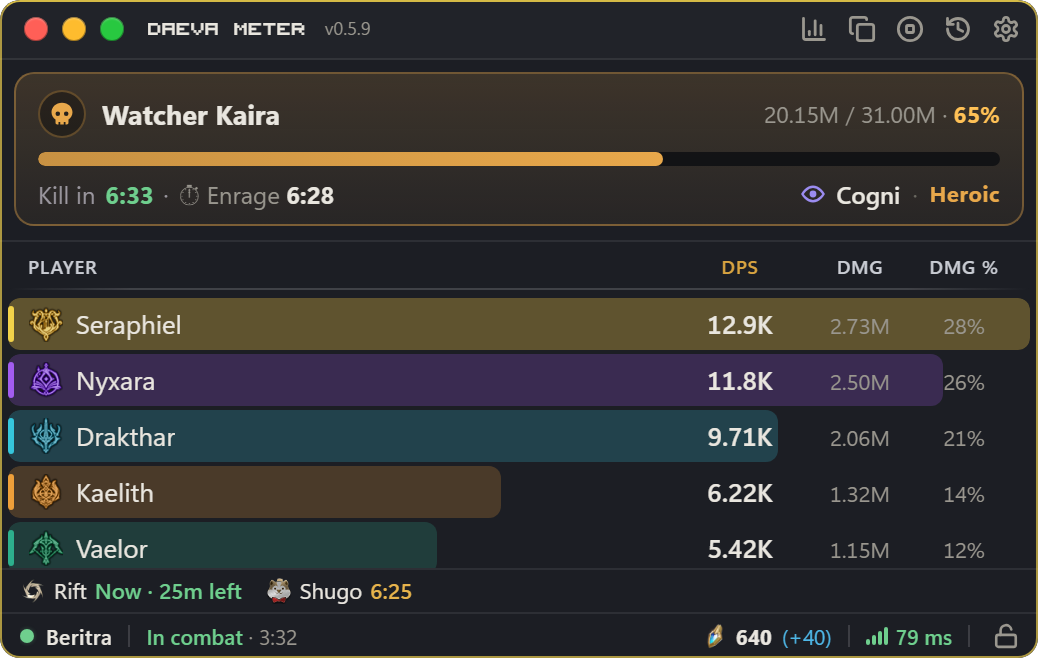
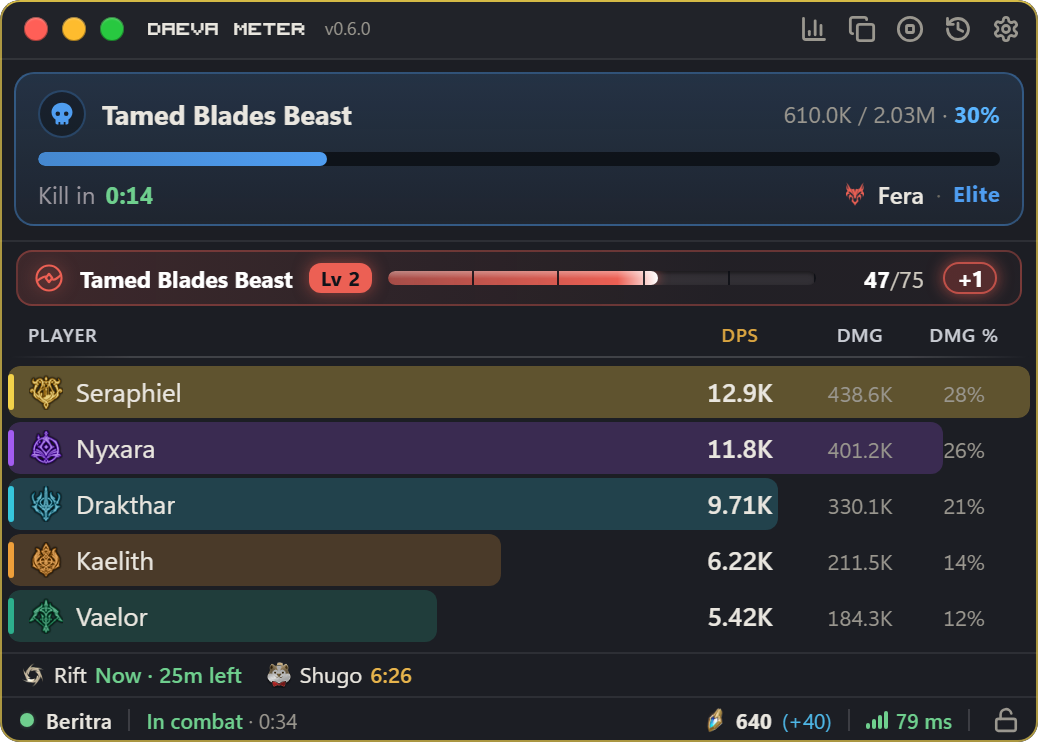
Daeva Meter 0.6.0 [release]

diff --git a/docs/branding/showcase/render.js b/docs/branding/showcase/render.js
@@ -18,10 +18,11 @@ if (!edge) throw new Error("Microsoft Edge not found");
 
 // Made-up party, so no real player names end up in the README.
 const now = Date.now() / 1000;
-const P = (id, name, cls, dps, share, crit, back, me) => ({ id, name, class: cls, is_self: !!me, in_party: true, dmg: Math.round(dps * 212), dps, share, hits: 400, crit_rate: crit, back_rate: back, perfect_rate: 0.09, front_rate: 1 - back, double_rate: 0.17, cp: me ? 74100 : null, max_hit: 99000, max_hit_skill: "x", heal: 0, hps: 0, taken: 0, deaths: 0 });
-const fight = { fight_id: 7, live: true, duration: 212, clock: "boss", clock_secs: 212, clock_target_name: "Watcher Kaira", total: 10.85e6,
+const P = (id, name, cls, dps, share, crit, back, me) => ({ id, name, class: cls, is_self: !!me, in_party: true, dmg: Math.round(dps * 34), dps, share, hits: 400, crit_rate: crit, back_rate: back, perfect_rate: 0.09, front_rate: 1 - back, double_rate: 0.17, cp: me ? 74100 : null, max_hit: 99000, max_hit_skill: "x", heal: 0, hps: 0, taken: 0, deaths: 0 });
+// 0.6.0: a pet-farm fight, so the pictures show the pet strip and Solo's pet chip.
+const fight = { fight_id: 7, live: true, duration: 34, clock: "fight", clock_secs: 34, clock_target_name: "Tamed Blades Beast", total: 1.42e6,
   players: [P(2, "Seraphiel", "Cleric", 12900, 0.28, 0.31, 0.42, true), P(3, "Nyxara", "Sorcerer", 11800, 0.26, 0.28, 0.18), P(4, "Drakthar", "Gladiator", 9710, 0.21, 0.24, 0.55), P(5, "Kaelith", "Chanter", 6220, 0.14, 0.19, 0.08), P(6, "Vaelor", "Ranger", 5420, 0.12, 0.22, 0.37)],
-  target: { id: 50, name: "Watcher Kaira", hp: 20.15e6, max_hp: 31e6, hp_pct: 0.65, berserk: 600, secs: 212, rank: "Heroic", family: "Cogni", dmg_taken: 10.85e6 } };
+  target: { id: 50, name: "Tamed Blades Beast", hp: 0.61e6, max_hp: 2.03e6, hp_pct: 0.30, secs: 34, rank: "Elite", family: "Fera", dmg_taken: 1.42e6, pet: { id: 1203, name: "Tamed Blades Beast", level: 2, count: 47, target: 75, gain_ago: 0.4, gain_n: 1, up_ago: null } } };
 const status = { version, server: "Beritra", ping_ms: 79, odyle: 640, odyle_bonus: 40, self_class: "Cleric", self_name: "Seraphiel", devices: [1], game_process: true, servers: [1], game_idle: 1 };
 const settings = { solo: { rank: true, chips: true, footer: true }, accent: "#d9a441", opacity: 0.94, scale: 1, rows: 8, columns: [], show_players: "auto", primary_metric: "dps", dps_clock: "boss", alerts: { enabled: true }, hotkeys: {} };
 const next = [{ id: "spacetime_rift", short: "Rift", name: "Spacetime Rift", emoji: "🌀", starts: now - 240, ends: now + 1560, active: true }, { id: "shugo_festival", short: "Shugo", name: "Shugo Festival", emoji: "🎪", starts: now + 394, ends: now + 994, active: false }];
@@ -35,7 +36,9 @@ const J = (v) => JSON.stringify(JSON.stringify(v));
 // the right side of Solo (the meter itself sizes its window to the card).
 function meter(layout, width) {
   const snap = { party: null, status, fight, ui: { layout, solo: settings.solo, show_target: true, opacity: 0.94, scale: 1, accent: "#d9a441", rows: 8, columns: [], primary_metric: "dps" }, alerts: { enabled: true, show_next: true, next } };
-  const html = withMock("index.html", `if(cmd==="get_snapshot")return ${J(snap)};if(cmd==="get_settings")return JSON.parse(${J({ ...settings, layout })});if(cmd==="get_events")return JSON.stringify({catalog:[]});if(cmd==="update_status")return JSON.stringify({current:${JSON.stringify(version)}});if(cmd==="get_names")return JSON.stringify({lookup_on:true});`);
+  let html = withMock("index.html", `if(cmd==="get_snapshot")return ${J(snap)};if(cmd==="get_settings")return JSON.parse(${J({ ...settings, layout })});if(cmd==="get_events")return JSON.stringify({catalog:[]});if(cmd==="update_status")return JSON.stringify({current:${JSON.stringify(version)}});if(cmd==="get_names")return JSON.stringify({lookup_on:true});`);
+  // The +1 pops for 3 s: freeze it so a still picture shows it.
+  html = html.replace("</head>", "<style>.petbar .plus,.so-pet .plus{animation:none!important;opacity:1}</style></head>");
   return width ? html.replace("</head>", `<style>.shell{right:auto!important;width:${width}px!important}</style></head>`) : html;
 }
 function alert() {
@@ -60,11 +63,11 @@ function shot(name, html, w, h, scale = 2, clear = false) {
     if (!r.ok) throw new Error("font download failed: " + f);
     fs.writeFileSync(path.join(tmp, f), Buffer.from(await r.arrayBuffer()));
   }
-  // Window sizes: Classic 520x330, Solo 372x135 at its 1.28 zoom, the alert takes the meter's width.
+  // Window sizes: Classic 520x372 (with the pet strip), Solo 372x135 at its 1.28 zoom, the alert takes the meter's width.
   // Always transparent (the last argument): only the meter's own rounded edge
   // may show. A dark backdrop or a frame around the shot gave every picture a
   // second edge at the corners (0.5.5). Zoom into the corners before committing.
-  const shots = { classic: shot("classic", meter("classic"), 520, 330, 2, true), solo: shot("solo", meter("solo", 476), 477, 177, 2, true), alert: shot("alert", alert(), 520, 118, 2, true) };
+  const shots = { classic: shot("classic", meter("classic"), 520, 372, 2, true), solo: shot("solo", meter("solo", 476), 477, 177, 2, true), alert: shot("alert", alert(), 520, 118, 2, true) };
   for (const [k, p] of Object.entries(shots)) fs.copyFileSync(p, path.join(outDir, `shot-${k}.png`));
 
   const page = fs.readFileSync(path.join(__dirname, "showcase.html"), "utf8").replace(/\{\{version\}\}/g, version);
@@ -72,7 +75,7 @@ function shot(name, html, w, h, scale = 2, clear = false) {
 
   // Tall picture for the meter section on aion2.bajubesi.org (transparent background).
   const stack = fs.readFileSync(path.join(__dirname, "site.html"), "utf8");
-  fs.copyFileSync(shot("site", stack, 468, 690, 2, true), path.join(outDir, "site-meter.png"));
+  fs.copyFileSync(shot("site", stack, 468, 736, 2, true), path.join(outDir, "site-meter.png"));
   fs.rmSync(tmp, { recursive: true, force: true });
   console.log(`Rendered README pictures for ${version} into docs/branding`);
 })().catch((e) => { console.error(e); process.exit(1); });
